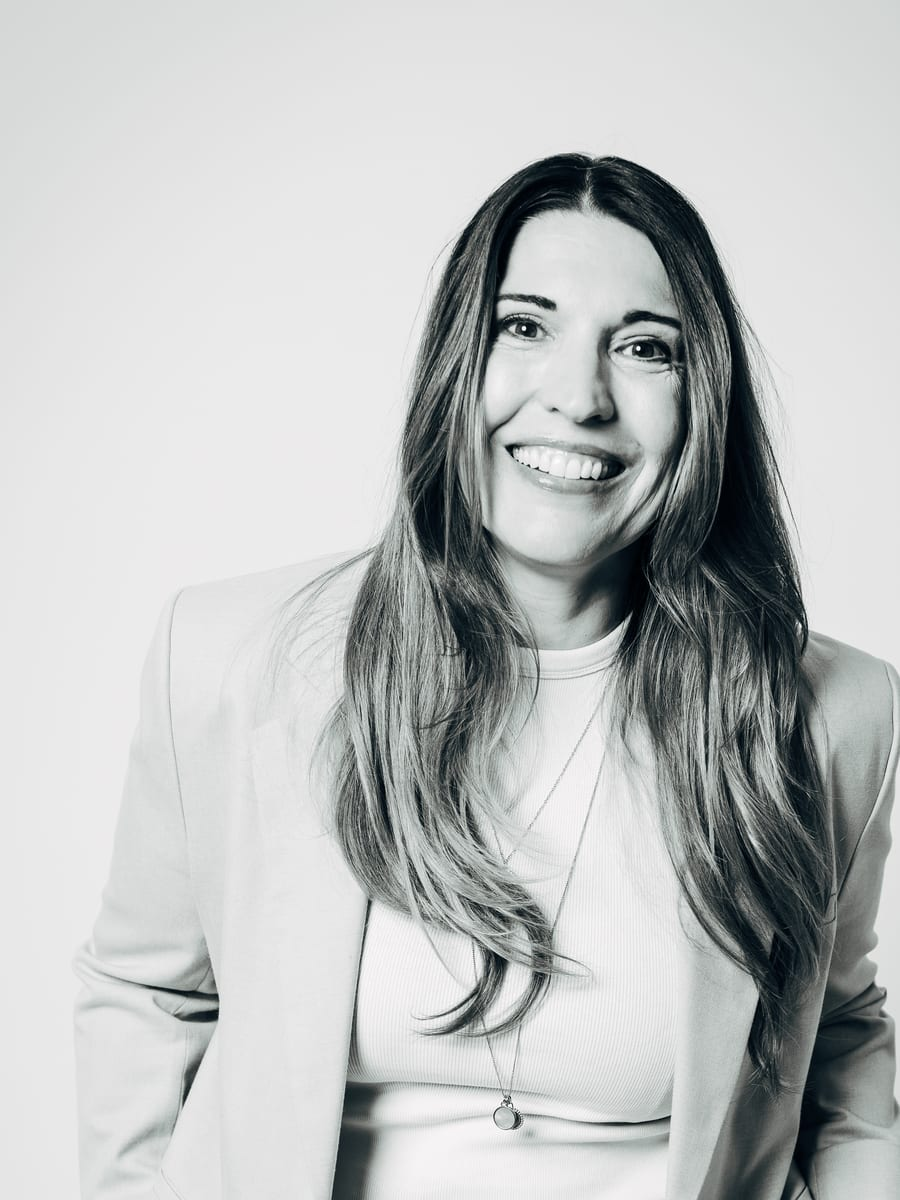
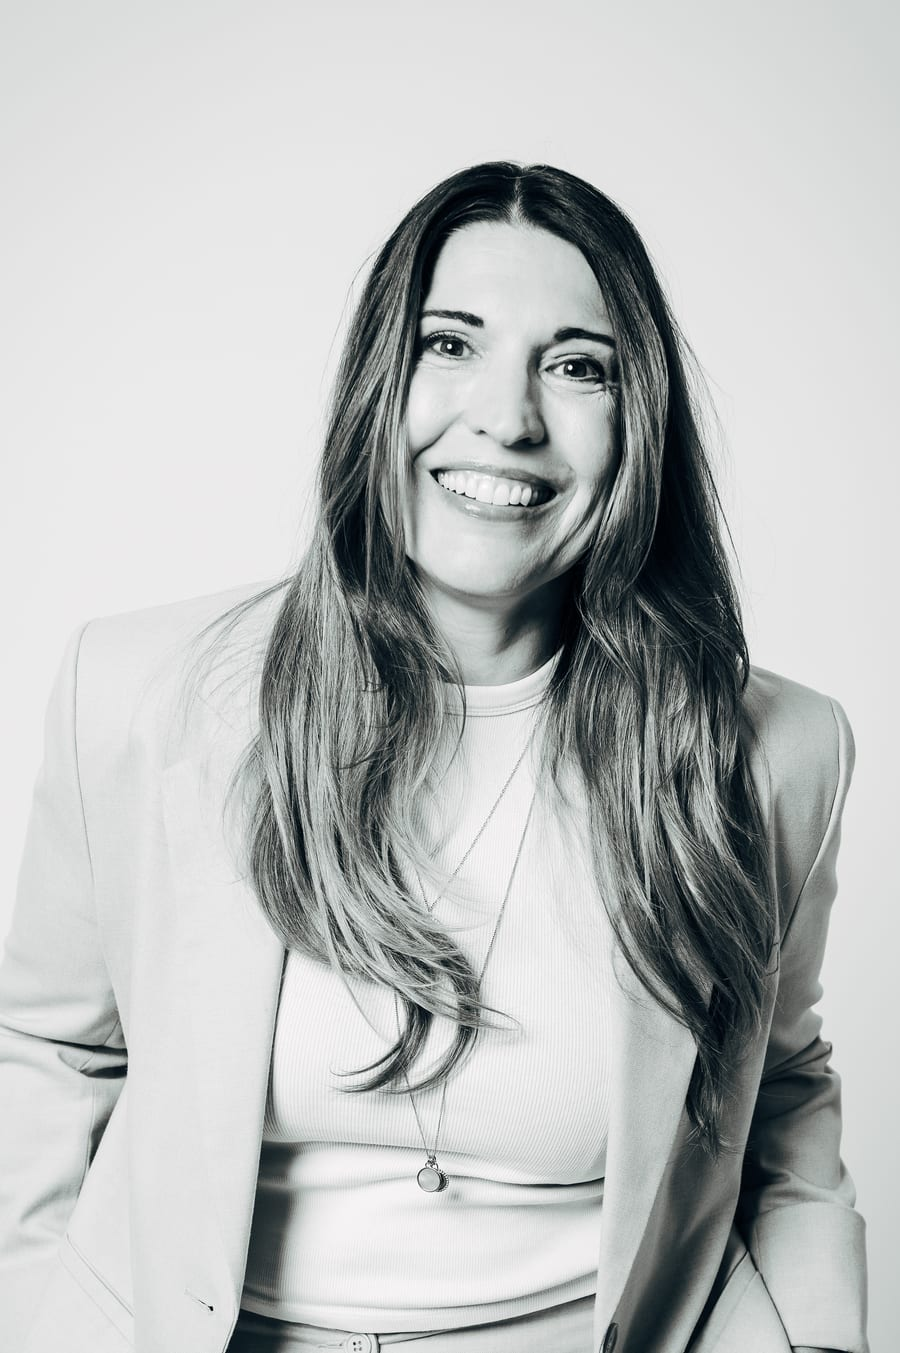
Team-Portraits gegen Portrait-Master getauscht + Spotify-Player zurück + Career-Claim-Zeilenabstand
- Team: 9 Portraits (ausser Marcus/Knut/Laegel) gegen vor-normalisierte
  Portrait-master-Bilder getauscht (900x1353, kein Neu-Zuschnitt),
  object-position 50% 0% -> oben+seitlich buendig, alle ~gleich gross
- Nav Spotify: Player wieder im Menue (kein Button); loading lazy->eager
  (Deploy-Fix: iframe im height:0-Overlay wurde nicht zuverlaessig geladen)
- Career Code-of-Conduct: "WE ARE / BANIJAY" Mobile-Zeilenabstand
  (unitless 1.06 statt fehlerhafter 132% -> kein Ueberlappen)

diff --git a/src/components/layout/SiteHeader.tsx b/src/components/layout/SiteHeader.tsx
@@ -25,14 +25,6 @@ function IconLinkedin() {
   );
 }
 
-function IconSpotify() {
-  return (
-    <svg viewBox="0 0 24 24" width="18" height="18" fill="currentColor" aria-hidden>
-      <path d="M12 0C5.4 0 0 5.4 0 12s5.4 12 12 12 12-5.4 12-12S18.66 0 12 0zm5.5 17.32a.75.75 0 0 1-1.03.25c-2.82-1.72-6.36-2.11-10.54-1.16a.75.75 0 1 1-.33-1.46c4.57-1.05 8.49-.6 11.65 1.34.35.22.46.68.25 1.03zm1.47-3.27a.94.94 0 0 1-1.29.31c-3.23-1.99-8.15-2.56-11.97-1.4a.94.94 0 1 1-.54-1.8c4.37-1.32 9.79-.68 13.49 1.6.44.27.58.85.31 1.29zm.13-3.4C15.73 8.28 8.5 8.05 4.78 9.18a1.13 1.13 0 1 1-.65-2.16c4.27-1.3 12.25-1.05 16.44 1.44a1.13 1.13 0 0 1-1.15 1.95z" />
-    </svg>
-  );
-}
-
 // News-Slider im Overlay: horizontale Artikel-Gallery, die von links einschiebt.
 // Öffnet unterhalb von „News"; die darunterliegenden Nav-Punkte rutschen runter.
 function NewsSlider({ open, onNavigate }: { open: boolean; onNavigate: () => void }) {
@@ -499,15 +491,19 @@ export function SiteHeader() {
               className="flex flex-col items-start gap-10 self-end transition-opacity duration-500 max-[767px]:w-full max-[767px]:gap-6 max-[767px]:self-start"
               style={{ opacity: infoVisible ? 1 : 0, color: INK }}
             >
-              {/* Spotify-Widget (WOLTER TALKS) — NUR Desktop (Wolfram 21.07.): Auf Mobile
-                  blockte der Browser-Tracking-Schutz das open.spotify.com-Embed häufig →
-                  kaputte graue Box. Mobil ersetzt ihn der Spotify-Button unten in „Folgen". */}
+              {/* Spotify-Widget (WOLTER TALKS) — Desktop großer Player (352), Mobile das
+                  kompakte Widget (152). Player steht wie zuvor im Menü auf ALLEN Viewports
+                  (kein Button) — Wolfram 21.07.
+                  loading="eager" statt "lazy" (Wolfram 21.07.): Das iframe liegt im
+                  Fixed-Overlay, das geschlossen height:0 hat. Lazy-Loading feuert den
+                  IntersectionObserver dort auf manchen (mobilen) Browsern erst spät oder
+                  gar nicht → leere/graue Box. Eager lädt das Embed sofort mit dem Overlay. */}
               <iframe
                 title="WOLTER TALKS auf Spotify"
                 src="https://open.spotify.com/embed/show/1DNETtYd9Y197eAQ45xMdh?utm_source=generator&theme=0"
-                loading="lazy"
+                loading="eager"
                 allow="autoplay; clipboard-write; encrypted-media; fullscreen; picture-in-picture"
-                className="h-[352px] w-[20rem] max-[767px]:!hidden"
+                className="h-[352px] w-[20rem] max-[767px]:order-2 max-[767px]:!h-[152px] max-[767px]:w-full max-[767px]:max-w-full"
                 style={{ borderRadius: 12, border: 0 }}
               />
               {/* Folgen (Instagram/LinkedIn) — auf Mobile ÜBER dem Spotify-Widget. */}
@@ -536,19 +532,9 @@ export function SiteHeader() {
                     <IconLinkedin />
                     LinkedIn
                   </a>
-                  {/* Spotify-Button NUR Mobile (Wolfram 21.07.) — Ersatz für den dort
-                      geblockten Embed-Player; Desktop nutzt das iframe-Widget oben. */}
-                  <a
-                    href="https://open.spotify.com/show/1DNETtYd9Y197eAQ45xMdh"
-                    target="_blank"
-                    rel="noopener noreferrer"
-                    aria-label="WOLTER TALKS auf Spotify"
-                    className="hidden items-center gap-2 rounded-[6px] border border-[#0e0d0b] bg-transparent px-5 py-2.5 text-sm font-medium text-[#0e0d0b] transition-colors hover:bg-[#0e0d0b] hover:text-white max-[767px]:inline-flex"
-                    style={{ borderColor: INK }}
-                  >
-                    <IconSpotify />
-                    WOLTER TALKS
-                  </a>
+                  {/* Kein Spotify-Button auf Mobile (Wolfram 21.07.): der zuvor als Ersatz
+                      eingesetzte Button ist wieder raus — Mobile zeigt in „Folgen" nur
+                      Instagram + LinkedIn. Desktop behält den iframe-Player oben. */}
                 </div>
               </div>
               {/* Büro + Kontakt nur Desktop — auf Mobile steht alles im Footer. */}

diff --git a/src/components/cinematic/algarve/Founders.tsx b/src/components/cinematic/algarve/Founders.tsx
@@ -32,6 +32,14 @@ const ROLE = { color: "rgba(248,247,243,0.64)", fontSize: "clamp(0.7rem, 0.8vw, 
 // Fokuspunkt je Portrait (object-position), damit die Gesichter im Crop nie
 // abgeschnitten werden — Portraits mit Kopf weit oben brauchen einen stärkeren
 // Top-Bias. Default: leicht nach oben versetzt.
+//
+// PORTRAIT-MASTER-TAUSCH (Wolfram 22.07.): Alle 9 Team-Portraits AUSSER Marcus, Knut,
+// Michael Laegel sind gegen Wolframs vor-normalisierte „Portrait-master"-Bilder getauscht
+// (assets/People/Portrait-master-*.jpg, alle 2682×4032, identische Rahmung → in public
+// nur proportional auf 900×1353 web-optimiert, KEIN Neu-Zuschnitt). Sie sitzen daher jetzt
+// alle auf object-position „50% 0%" (oben + seitlich bündig, object-cover füllt die Breite)
+// und sind bereits in der Datei gleich groß. Die veralteten Einzelkommentare unten (900×1200,
+// „Kopf 32 %", Top-Bias 18 %) beziehen sich auf die VORIGEN Crops und sind damit hinfällig.
 const FOCUS: Record<string, string> = {
   "/people/lead-1.jpg": "50% 22%",
   // Marcus Wolter (Wolfram 21.07.) — echtes Portrait in der LEADER-Reihe, wie Michael
@@ -40,17 +48,17 @@ const FOCUS: Record<string, string> = {
   "/people/lead-2.jpg": "50% 14%",
   // Aylin Firat (Wolfram 17.07.) — echtes Portrait, ersetzt lead-2.jpg. Bereits auf
   // Kopf/Oberkörper beschnitten (siehe leadership.ts), daher nur leichter Top-Bias.
-  "/people/aylin-firat.jpg": "50% 18%",
+  "/people/aylin-firat.jpg": "50% 0%",
   // Elena Kats (Wolfram 19.07.) — Ganzkörper-Sitzfoto jetzt ENG auf Kopf/Oberkörper
   // beschnitten (Kopf ~28 % der Bildhöhe, wie die übrigen Portraits) → gleicher Top-Bias.
-  "/people/elena-kats.jpg": "50% 18%",
+  "/people/elena-kats.jpg": "50% 0%",
   // Michael Gaul (Wolfram 17.07.) — echtes Portrait, ersetzt lead-5.jpg. Nach derselben
   // Regel wie Aylin beschnitten (siehe leadership.ts), daher derselbe Top-Bias.
-  "/people/michael-gaul.jpg": "50% 18%",
+  "/people/michael-gaul.jpg": "50% 0%",
   // Alle vier Portraits aus der 2026er-Session sind nach derselben Regel beschnitten
   // (Kopf = 32 % der Ausschnitthöhe, siehe leadership.ts) → identischer Top-Bias.
-  "/people/matthaeus-jaworek.jpg": "50% 18%",
-  "/people/sebastian-menge.jpg": "50% 18%",
+  "/people/matthaeus-jaworek.jpg": "50% 0%",
+  "/people/sebastian-menge.jpg": "50% 0%",
   // Michael Laegel steht in der LEADER-Reihe (Kachel 1.36 statt 1.03) und ist daher
   // anders beschnitten — siehe leadership.ts. Dort zeigt die Kachel nur 55 % der
   // Bildhöhe, deshalb ein knapperer Top-Bias als bei den 32%-Portraits.
@@ -62,21 +70,21 @@ const FOCUS: Record<string, string> = {
   "/people/knut-kremling.jpg": "50% 5%",
   // Kopfgrößen-Normalisierung (Wolfram 20.07.): jetzt 900×1200 (3:4) mit Kopf ~38 % /
   // Kopf-Oberkante 12 % wie die Standard-Reihe → gleicher Fokuswert 18 %.
-  "/people/simone-lenzen.jpg": "50% 18%",
+  "/people/simone-lenzen.jpg": "50% 0%",
   "/people/lead-3.jpg": "50% 12%",
   "/people/lead-4.jpg": "50% 22%",
   "/people/lead-5.jpg": "50% 20%",
   // Natali Naso (Wolfram 20.07.): echtes Portrait natali-naso.jpg, 900×1200 (3:4) wie die
   // übrigen Standard-Reihen (Kopf ~32 %, 12 % Luft oben) → gleicher Fokuswert wie die
   // Nachbarn (18 %). Löst den Platzhalter lead-6.jpg ab.
-  "/people/natali-naso.jpg": "50% 18%",
+  "/people/natali-naso.jpg": "50% 0%",
   // Janine Berns (Wolfram 21.07.) — echtes Portrait, löst lead-1.jpg ab. Nach derselben
   // Reihen-Norm beschnitten (Kopf ~33 %, höher) → gleicher Top-Bias wie die Nachbarn.
-  "/people/janine-berns.jpg": "50% 18%",
+  "/people/janine-berns.jpg": "50% 0%",
   "/people/lead-7.jpg": "50% 26%",
   // Heike Lutzer (Wolfram 20.07.) — echtes Portrait, löst lead-8.jpg ab. Ganzkörper-Quelle
   // eng auf Kopf/Oberkörper beschnitten (Kopf ~29 %) → gleicher Top-Bias wie die anderen.
-  "/people/heike-lutzer.jpg": "50% 18%",
+  "/people/heike-lutzer.jpg": "50% 0%",
   "/people/lead-9.jpg": "50% 22%",
 };
 const focus = (img: string) => FOCUS[img] ?? "50% 20%";

diff --git a/src/components/cinematic/algarve/CodeOfConductBand.tsx b/src/components/cinematic/algarve/CodeOfConductBand.tsx
@@ -104,9 +104,14 @@ export function AlgarveCodeOfConductBand({ background }: { background?: React.Re
             über ihn — bei 22vw funktionierte das, weil die Buchstaben so groß waren,
             dass die Container nur als Textur darüberzogen. In der jetzigen
             Headline-Größe (7vw) würden sie den Claim schlicht zudecken. */}
+        {/* Mobile-Zeilenabstand enger (Wolfram 21.07.): Bei 13vw wirkte die 132%-lineHeight
+            des zweizeiligen Claims („WE ARE" / „BANIJAY") zu luftig. Auf Mobile 1.06 —
+            UNITLESS (wichtig!): die %-Variante rechnet gegen die h2-eigene 7vw-Größe und
+            würde als fixe px an die 13vw-Spans vererbt → Zeilen überlappen. Unitless
+            multipliziert die jeweils EIGENE Span-Größe. */}
         <h2
           data-coc-claim
-          className="absolute z-10 m-0 w-full text-center uppercase"
+          className="absolute z-10 m-0 w-full text-center uppercase max-[767px]:!leading-[1.06]"
           style={{ ...CLAIM_STYLE, willChange: "transform, opacity" }}
         >
           {CLAIM_LINES.map((line) => (
